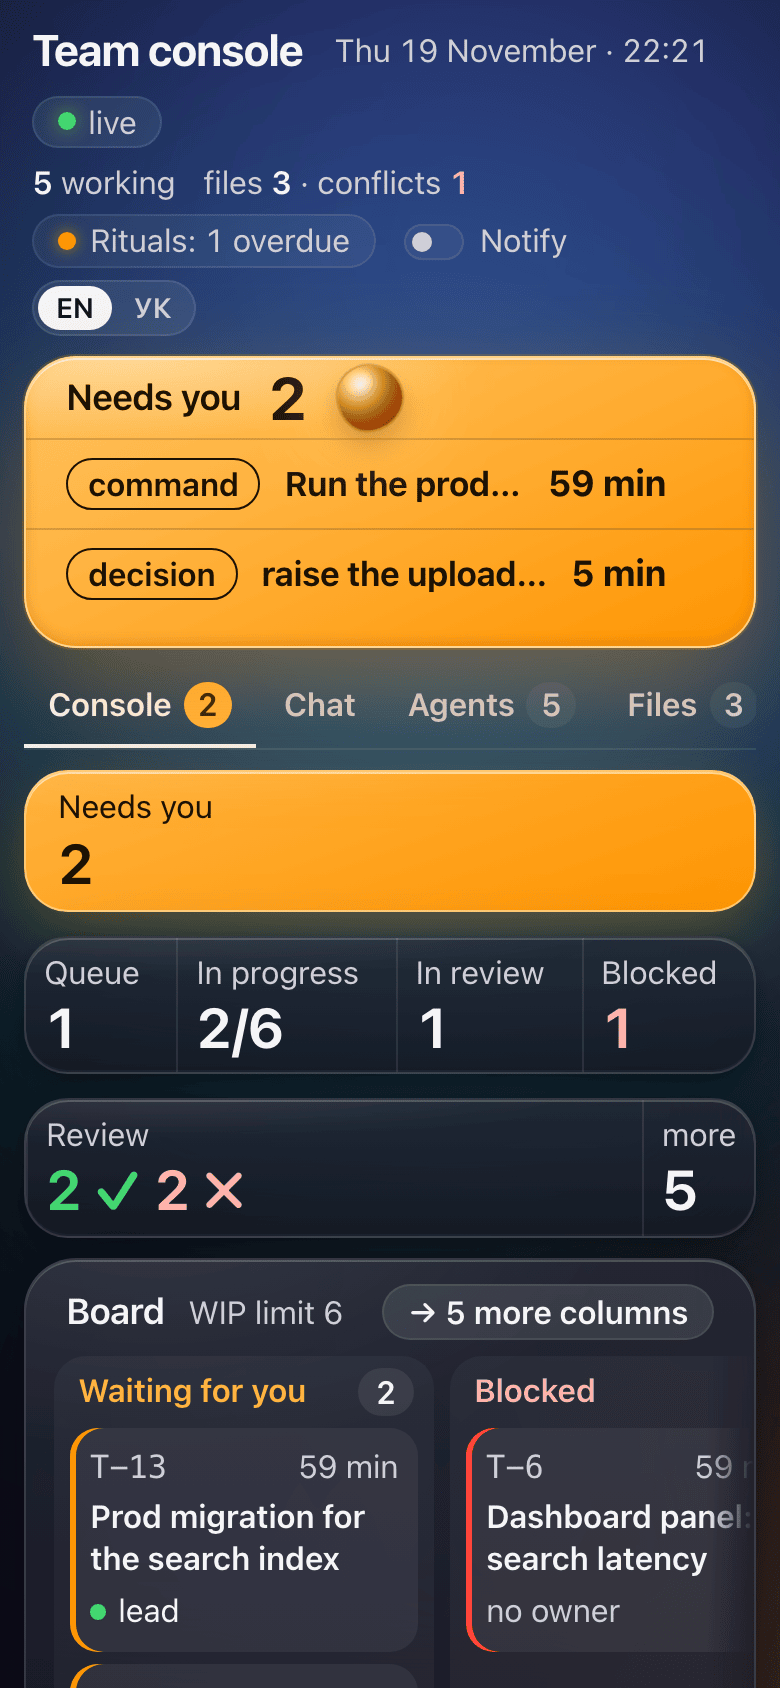
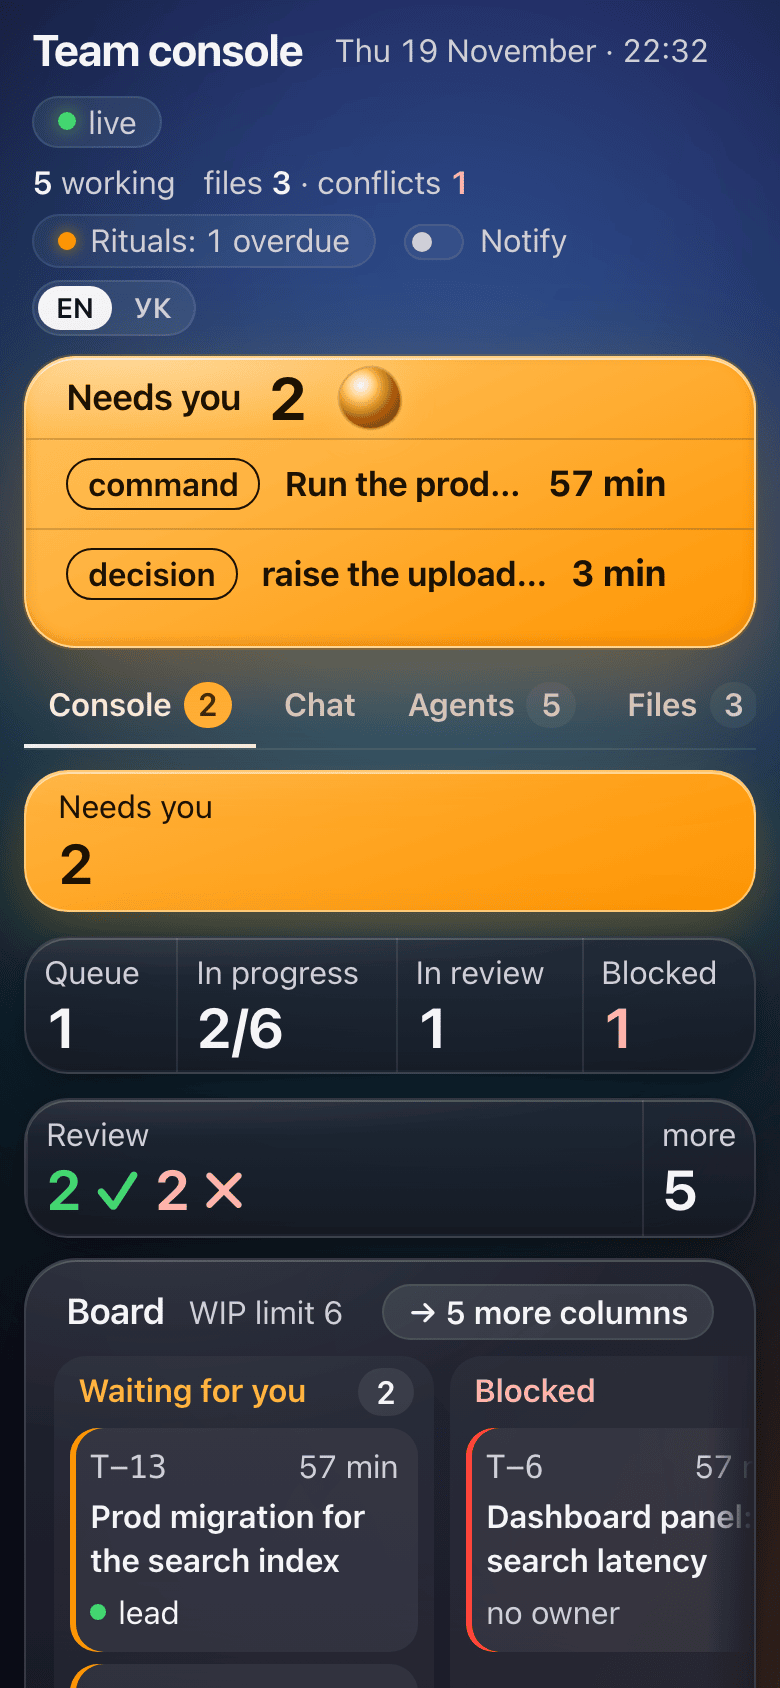
README and pictures: claims match the code, full who zone, chat crop, ignore ste/
- README: card flow with auto-closed reviewer/researcher/Codex cards, when a Needs-you
  item clears, file-claim behaviour for the lead, STE copyright wording, all three
  files required, message format, setitimer note, full board sample, wrapped top part,
  Language under its own heading
- docs/screenshots: dashboard and who zone at 1512x1340 so all rows show, chat cut
  above the first partial row
- .gitignore: .claude/team/ste/

diff --git a/README.md b/README.md
@@ -1,26 +1,40 @@
 # Claude team harness
 
-A local harness that runs a Claude Code session as a team lead with specialist subagents, and shows what the team does on a dashboard in your browser.
+A local harness that runs a Claude Code session as a team lead with specialist subagents, and
+shows what the team does on a dashboard in your browser.
 
 ![The dashboard with demo data: what needs you, who works on what, the board and the team chat](docs/screenshots/dashboard.png)
 
 ## What you get
 
-- A "Needs you" zone: when the lead ends a reply with a "What I need from you" block, or a card waits for your answer, the item stays at the top of the dashboard until you answer it.
+- A "Needs you" zone: when the lead ends a reply with a "What I need from you" block, or a card
+  waits for your answer, the item stays at the top of the dashboard until you reply in that
+  session, the lead's next reply replaces it, or the card moves on.
 
   ![Needs you](docs/screenshots/needs-you.png)
 - Who works on what: each running agent with its latest status line and how long it has run.
 
   ![Who's doing what](docs/screenshots/who.png)
-- A task board: cards `T-n` with status, owner role and model/effort. An Agent call whose description starts with `T-12: ...` attaches to that card. A finished card goes to review, and only the lead moves it to done.
+- A task board: cards `T-n` with status, owner role and model/effort. An Agent call whose
+  description starts with `T-12: ...` attaches to that card. A worker's finished card goes to
+  review, and the lead moves it to done after the check. A reviewer, researcher or Codex run that
+  opened its own card closes it when it stops.
 
   ![Board](docs/screenshots/board.png)
-- Team chat: agents post asks, answers, decisions, blockers, handoffs and reports with `team.py`, and a message to an agent reaches it on its next tool call. Reviewer verdicts show as PASS or FAIL.
+- Team chat: agents post asks, answers, decisions, blockers, handoffs and reports with `team.py`,
+  and a message to an agent reaches it on its next tool call. Reviewer verdicts show as PASS or
+  FAIL.
 
   ![Chat](docs/screenshots/chat.png)
-- File claims: an edit claims the file for that agent. Another agent's edit of the same file is denied, and so are `git checkout`, `stash`, `reset --hard` and similar commands in a worktree where someone else has edits.
-- A fact-check gate for outward text: Slack, Jira, Confluence and `gh` writes that hold dates, numbers, versions or ticket refs are blocked until a reviewer or Codex agent that did not write the text records a PASS with a primary source for each fact.
-- Rituals: skills for a daily, weekly planning, a retro and an evening reflection, optionally run by launchd. The lessons they write are injected into every later run of that role.
+- File claims: an edit claims the file for that agent. The hook denies an edit of the same file
+  by a different worker agent; the lead gets only a warning, and an edit of a file the lead
+  touched gives only a note. `git checkout`, `stash`, `reset --hard` and similar commands are
+  denied in a worktree where someone else has edits.
+- A fact-check gate for outward text: Slack, Jira, Confluence and `gh` writes that hold dates,
+  numbers, versions or ticket refs are blocked until a reviewer or Codex agent that did not write
+  the text records a PASS with a primary source for each fact.
+- Rituals: skills for a daily, weekly planning, a retro and an evening reflection, optionally run
+  by launchd. The lessons they write are injected into every later run of that role.
 
 The dashboard also works at phone width:
 
@@ -29,18 +43,24 @@ The dashboard also works at phone width:
 The same board in the terminal (`python3 .claude/team/team.py board`):
 
 ```
+== Backlog (2)
+  T-7    Alert on search error rate  [-] #recipe-search  2h59m
+  T-11   Saved searches  [-] #recipe-search  2h59m
 == To do (1)
-  T-10   Search page: e2e + screenshots at 3 viewports  [-] #recipe-search  3h00m
+  T-10   Search page: e2e + screenshots at 3 viewports  [-] #recipe-search  2h59m
 == In progress (2)
-  T-4    Fix flaky test_checkout_totals in CI  [sre-ci opus/high] #flaky-ci  84m — per-worker test databases approved
-  T-9    Search page: results with filters  [eng-search opus/high] #recipe-search  1h52m
+  T-4    Fix flaky test_checkout_totals in CI  [sre-ci opus/high] #flaky-ci  83m — per-worker test databases approved
+  T-9    Search page: results with filters  [eng-search opus/high] #recipe-search  1h51m
 == In review (1)
-  T-5    Search index settings in the deploy chart  [delivery-index sonnet/high] #recipe-search  68m
+  T-5    Search index settings in the deploy chart  [delivery-index sonnet/high] #recipe-search  67m
 == Blocked (1)
-  T-6    Dashboard panel: search latency  [-] #recipe-search  59m — needs search metrics from T-8 on staging
+  T-6    Dashboard panel: search latency  [-] #recipe-search  58m — needs search metrics from T-8 on staging
 == Waiting for you (2)
-  T-13   Prod migration for the search index  [lead] #recipe-search  59m — Run the prod migration: `! make -C ~/work/recipe-api migrate-prod`
-  T-14   Triage image-upload issues  [triage-uploads sonnet/medium] #uploads  5m — Product: raise the upload limit to 20 MB, or keep 8 MB and shrink photos in the…
+  T-13   Prod migration for the search index  [lead] #recipe-search  58m — Run the prod migration: `! make -C ~/work/recipe-api migrate-prod`
+  T-14   Triage image-upload issues  [triage-uploads sonnet/medium] #uploads  4m — Product: raise the upload limit to 20 MB, or keep 8 MB and shrink photos in the…
+== Done (2)
+  T-3    Research search: Postgres full-text vs a search service  [researcher-search sonnet/medium] #recipe-search  2h31m — Postgres full-text, GIN
+  T-8    Search API: query parser + types  [eng-search opus/high] #recipe-search  1h51m — review PASS
 ```
 
 All pictures use the invented demo data of `.claude/team/dashboard/seed_demo.py`.
@@ -54,12 +74,17 @@ Claude Code hooks ──> .claude/team/hook.py ──> state/team.db (SQLite)
                                                    └──> dashboard/server.py ──> http://127.0.0.1:7777
 ```
 
-Hooks write every spawn, tool call, message, file edit and finish into a SQLite event log. The board, the chat, the file claims and the fact-check gate all read and write that log, and the dashboard reads it. Each subagent gets the team protocol, a snapshot of the team and its role's lessons when it starts. The log and the dashboard stay on your machine; the dashboard listens on 127.0.0.1 only. Details are in [How it works in detail](#how-it-works-in-detail).
+Hooks write every spawn, tool call, message, file edit and finish into a SQLite event log. The
+board, the chat, the file claims and the fact-check gate all read and write that log, and the
+dashboard reads it. Each subagent gets the team protocol, a snapshot of the team and its role's
+lessons when it starts. The log and the dashboard stay on your machine; the dashboard listens on
+127.0.0.1 only. Details are in [How it works in detail](#how-it-works-in-detail).
 
 ## Quick start
 
 1. Clone this repository.
-2. Give your coding agent the prompt in [Install with an agent](#install-with-an-agent), or follow the manual [Install](#install) steps.
+2. Give your coding agent the prompt in [Install with an agent](#install-with-an-agent), or follow
+   the manual [Install](#install) steps.
 3. Start `claude` in the workspace. The session brief prints the dashboard URL.
 4. Give the lead a task. Open the URL to watch the team work on it.
 
@@ -180,12 +205,6 @@ EOF
 
 ## How it works in detail
 
-Everything is in English by default. The dashboard also has Ukrainian: it follows the browser
-language, an EN / УК toggle in the header switches it (the choice is saved), and `?lang=en|uk` in the
-URL overrides both. `TEAM_LANG=uk` switches the CLI board headings and the event texts that hooks
-write. The hook that turns the lead's "What I need from you" block into a "Needs you" item also
-recognises the Ukrainian heading "Що від тебе"; see `CLAUDE.example.md`.
-
 ```
 Claude Code hooks ──> .claude/team/hook.py ──> state/team.db (SQLite, WAL)
                                                    │
@@ -200,11 +219,13 @@ launchd ──> schedule/run-ritual.sh ──> claude -p "/daily" | "/planning" 
   its spawn and board card, injects `PROTOCOL.md`, a team snapshot and role lessons into every
   subagent, and delivers team chat addressed to an agent on its next tool call.
 - Board: cards `T-n` with status, owner role and model/effort. An Agent call whose description
-  starts with `T-12: ...` attaches to that card; an untagged spawn opens its own card. A finished
-  worker's card moves to review; only the lead moves it to done.
-- File claims: every Edit/Write claims the file for that agent. Another agent's edit of the same
-  file is denied, and so are `git checkout/switch/stash/reset --hard/rebase/pull/merge/clean/restore`
-  in a worktree where someone else has edits.
+  starts with `T-12: ...` attaches to that card; an untagged spawn opens its own card. A worker's
+  finished card goes to review, and the lead moves it to done after the check. A reviewer,
+  researcher or Codex run that opened its own card closes it when it stops.
+- File claims: every Edit/Write claims the file for that agent. The hook denies an edit of the
+  same file by a different worker agent; the lead gets only a warning, and an edit of a file the
+  lead touched gives only a note. `git checkout/switch/stash/reset --hard/rebase/pull/merge/clean/restore`
+  is denied, for the lead too, in a worktree where someone else has edits.
 - Fact-check gate: Slack, Jira and Confluence write tools (matched by tool name, any MCP server
   prefix) and `gh pr|issue|release` writes and `gh api` writes are denied while their text holds
   dates, weekdays, times, numbers, versions, ticket/PR refs or cron expressions with no PASS for that
@@ -227,6 +248,14 @@ launchd ──> schedule/run-ritual.sh ──> claude -p "/daily" | "/planning" 
 - STE check (optional, off by default): the hook passes each Agent brief, SendMessage text and
   team chat post to an STE linter that you supply, and adds its findings as an `ste:` note to the
   agent's next context. See [STE check](#ste-check-optional).
+
+### Language
+
+Everything is in English by default. The dashboard also has Ukrainian: it follows the browser
+language, an EN / УК toggle in the header switches it (the choice is saved), and `?lang=en|uk` in the
+URL overrides both. `TEAM_LANG=uk` switches the CLI board headings and the event texts that hooks
+write. The hook that turns the lead's "What I need from you" block into a "Needs you" item also
+recognises the Ukrainian heading "Що від тебе"; see `CLAUDE.example.md`.
 
 ## Layout
 
@@ -382,24 +411,29 @@ the install created it, takes the marked line out of the hosts file and moves th
 ## STE check (optional)
 
 Simplified Technical English (STE, the ASD-STE100 standard) is a controlled English with short
-sentences, one instruction per sentence and a limited vocabulary. The harness can lint agent messages against it, but it
-does not ship a linter or word lists: the standard does not allow reproduction, so you supply them.
+sentences, one instruction per sentence and a limited vocabulary. The harness can lint agent
+messages against it, but it does not ship a linter or word lists: the standard's copyright notice
+forbids reproduction without written permission from ASD, so you supply them.
 
 The check is off by default. To turn it on:
 
-1. Put these three files in `.claude/team/ste/` (or the directory in `TEAM_STE_DIR`):
+1. Put all three of these files in `.claude/team/ste/` (or the directory in `TEAM_STE_DIR`):
    - `ste_lint.py`, a module with `check(text, kind)` and `gate(result, mode)`, and a `main(argv)`
      for the CLI. `kind` is `brief`, `chat` or `doc`. `check` returns a dict with `words`, `hard` and
      `soft` (lists of findings, each a dict with at least `rule`) and an optional `error`. `gate`
-     returns `(decision, message)`, where decision is `allow`, `warn` or `deny`.
+     returns `(decision, message)`, where decision is `allow`, `warn` or `deny`. `message` is a
+     summary line, then one finding per line, each indented by two spaces.
    - `avoid.tsv` and `terms.tsv`, the word lists your linter reads.
+
+   If one of the three files is missing, the check is off.
 2. Set `{"ste": "warn"}` in `.claude/team/config.json`, or `TEAM_STE=warn` in the settings `env`.
 
 In `warn` mode the hook adds the linter's message (the first six findings) to the agent's next
 context and lets the call go through. In `deny` mode it stops an Agent brief or SendMessage when
 `gate` returns `deny`; a chat post is never stopped, only noted. A plain `say` is not checked. If a
 file is missing, the linter fails or takes more than 2 seconds, the call goes through unchecked and
-the reason goes to `state/ste-errors.log`. `team.py ste <file>` (or `-` for stdin) runs the linter
+the reason goes to `state/ste-errors.log`. The 2 second limit works only in the main thread on a
+system with `setitimer` (macOS, Linux). `team.py ste <file>` (or `-` for stdin) runs the linter
 on a draft. `.claude/team/tests/ste_fixture/` holds a small stand-in linter that the tests use; it
 shows the interface and knows only three rules.
 
